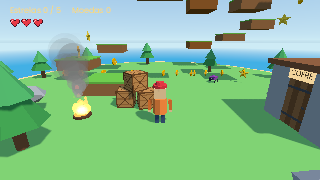
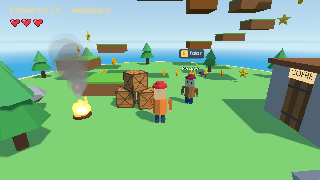
Diálogos: tipo dialogue nas propriedades (teste e lua.md) e miniaturas dos modelos 3D e Aventura
Claude-Session: https://claude.ai/code/session_019HQhtXMJFTUUWW1iWbYT25

Changed region(s): [[0.5312, 0.3889, 0.6875, 0.5833], [0.5625, 0.25, 0.6562, 0.3333], [0.5625, 0.3611, 0.625, 0.3889]]

diff --git a/crates/nn-script/tests/comportamentos.rs b/crates/nn-script/tests/comportamentos.rs
@@ -128,7 +128,7 @@ fn todos_os_comportamentos_prontos_se_descrevem_sem_a_engine() {
             assert!(
                 [
                     "number", "bool", "text", "color", "choice", "object", "scene", "prefab",
-                    "sound", "image", "anim"
+                    "sound", "image", "anim", "dialogue"
                 ]
                 .contains(&ty.as_str()),
                 "{id}.{key}: tipo {ty}"

diff --git a/docs/lua.md b/docs/lua.md
@@ -337,7 +337,7 @@ end
 return B
 ```
 
-- **Propriedades** (`props`): lista de `{ "nome", padrão, ... }`. Cada uma vira `self.<nome>`, com o valor que o objeto tem no `.cena` (ou o padrão). Opções: `label`, `help`, `min`, `max`, `integer = true`, `options = { { valor, "texto" }, ... }` (escolha), `advanced = true` (só no modo Completo), `show_if = { "outra", valores... }` (só aparece quando outra propriedade tem um desses valores) e `type`, que normalmente é deduzido do padrão (número, sim/não, cor `"#RRGGBB"`, texto). Para o Inspetor mostrar a lista certa, `type` pode ser `"object"` (nome de um objeto da cena), `"scene"`, `"prefab"`, `"sound"`, `"image"`, `"color"` ou `"choice"`. Também vale um mapa simples: `props = { velocidade = 90 }`.
+- **Propriedades** (`props`): lista de `{ "nome", padrão, ... }`. Cada uma vira `self.<nome>`, com o valor que o objeto tem no `.cena` (ou o padrão). Opções: `label`, `help`, `min`, `max`, `integer = true`, `options = { { valor, "texto" }, ... }` (escolha), `advanced = true` (só no modo Completo), `show_if = { "outra", valores... }` (só aparece quando outra propriedade tem um desses valores) e `type`, que normalmente é deduzido do padrão (número, sim/não, cor `"#RRGGBB"`, texto). Para o Inspetor mostrar a lista certa, `type` pode ser `"object"` (nome de um objeto da cena), `"scene"`, `"prefab"`, `"sound"`, `"image"`, `"dialogue"` (um `.dialogo`), `"color"` ou `"choice"`. Também vale um mapa simples: `props = { velocidade = 90 }`.
 - **Callbacks** (todos opcionais): `start()`, `update(dt)`, `fixed_update(dt)`, `draw()` (depois dos objetos), `contact(outro, e)` (o corpo do objeto tocou o de `outro`; `e` é o evento da física) e `destroyed()`.
 - **Campos:** `self.obj` (o objeto), `self.scene` (a cena: `self.scene:find`, `self.scene:spawn`...), `self.enabled` (`false` para de rodar) e `self.component` (o componente, com os valores do arquivo).
 - `player = true` marca um comportamento de jogador: é quem os outros procuram quando "Quem" ou "Alvo" fica vazio.
